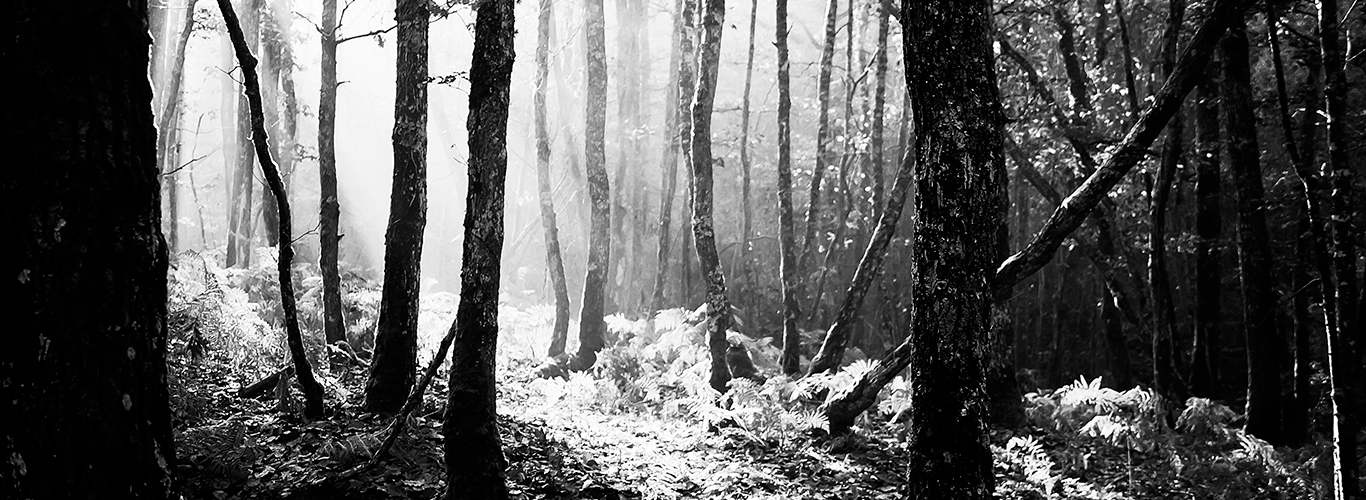
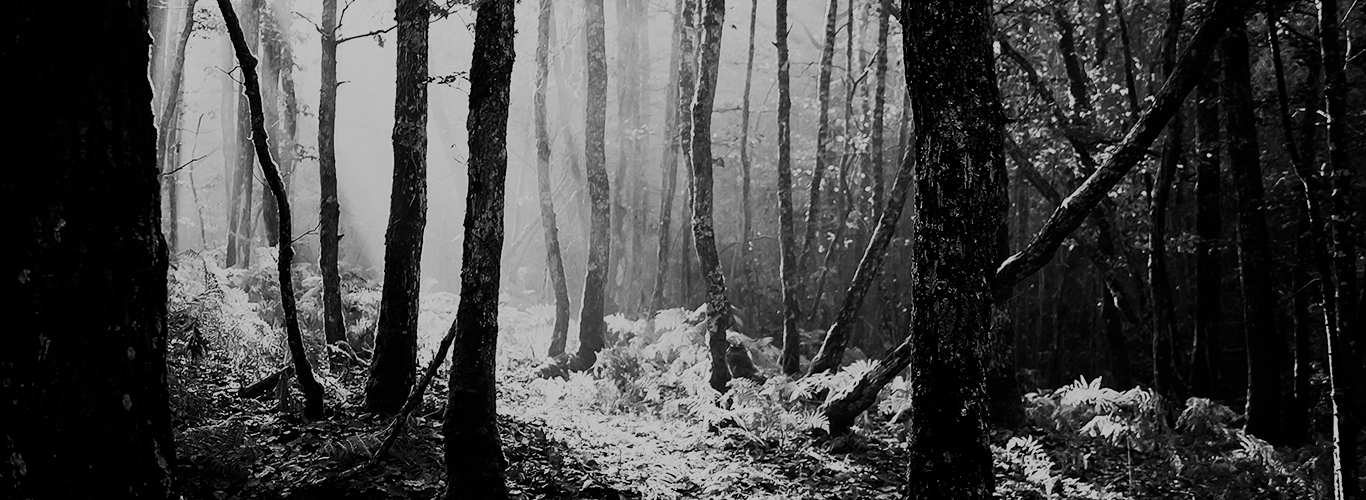
image change

diff --git a/css/style.css b/css/style.css
@@ -1,7 +1,7 @@
 body {
    margin: auto;
    width: 1366px;
-   background-color: #f4f4f4;
+   background-color: white;
    /* background-color: #c9c9c9; */
    /* background-color: none; */
 }
@@ -14,7 +14,7 @@ nav {
    width: 100vw;
    height: 30px;
    background-color: black;
-   box-shadow: 0 10px 30px white;
+   box-shadow: 0 0 5px black;
    list-style-type: none;
    padding-top: 15px;
 }
@@ -46,13 +46,13 @@ h1 {
    display: flex;
    justify-content: center;
    text-align: center;
-   margin-top: 163px;
+   margin-top: auto;
    padding-top: 200px;
-   padding-bottom: 100px;
+   padding-bottom: 200px;
    font-family: 'Playfair Display SC', serif;
    font-variant: small-caps;
    font-size: 6rem;
-   color: #898989;
+   color: white;
    transition: 3s;
    background-image: url('/Users/celina/Documents/GitHub/semester-project--spring-2019-web-design-1-at-queens-college/img/woods.png');
 }
@@ -89,10 +89,10 @@ h2 {
    margin-left: 30px; */
    position: relative;
    border-bottom: 8px solid #898989;
-   padding-bottom: 150px;
+   padding-bottom: 60px;
    display: flex;
    text-align: center;
-   top: 480px;
+   top: 550px;
    font-family: 'Playfair Display', serif;
    font-style: normal;
    font-variant: small-caps;
@@ -146,7 +146,7 @@ a:visited {
 }
 
 a:hover {
-   color: white;
+   color: black;
    transition: 500ms;
 }
 
@@ -160,7 +160,7 @@ main {
 }
 
 h3 {
-   padding-top: 480px;
+   padding-top: 550px;
    padding-bottom: 60px;
    font-family: 'Playfair Display SC', serif;
    font-style: normal;
